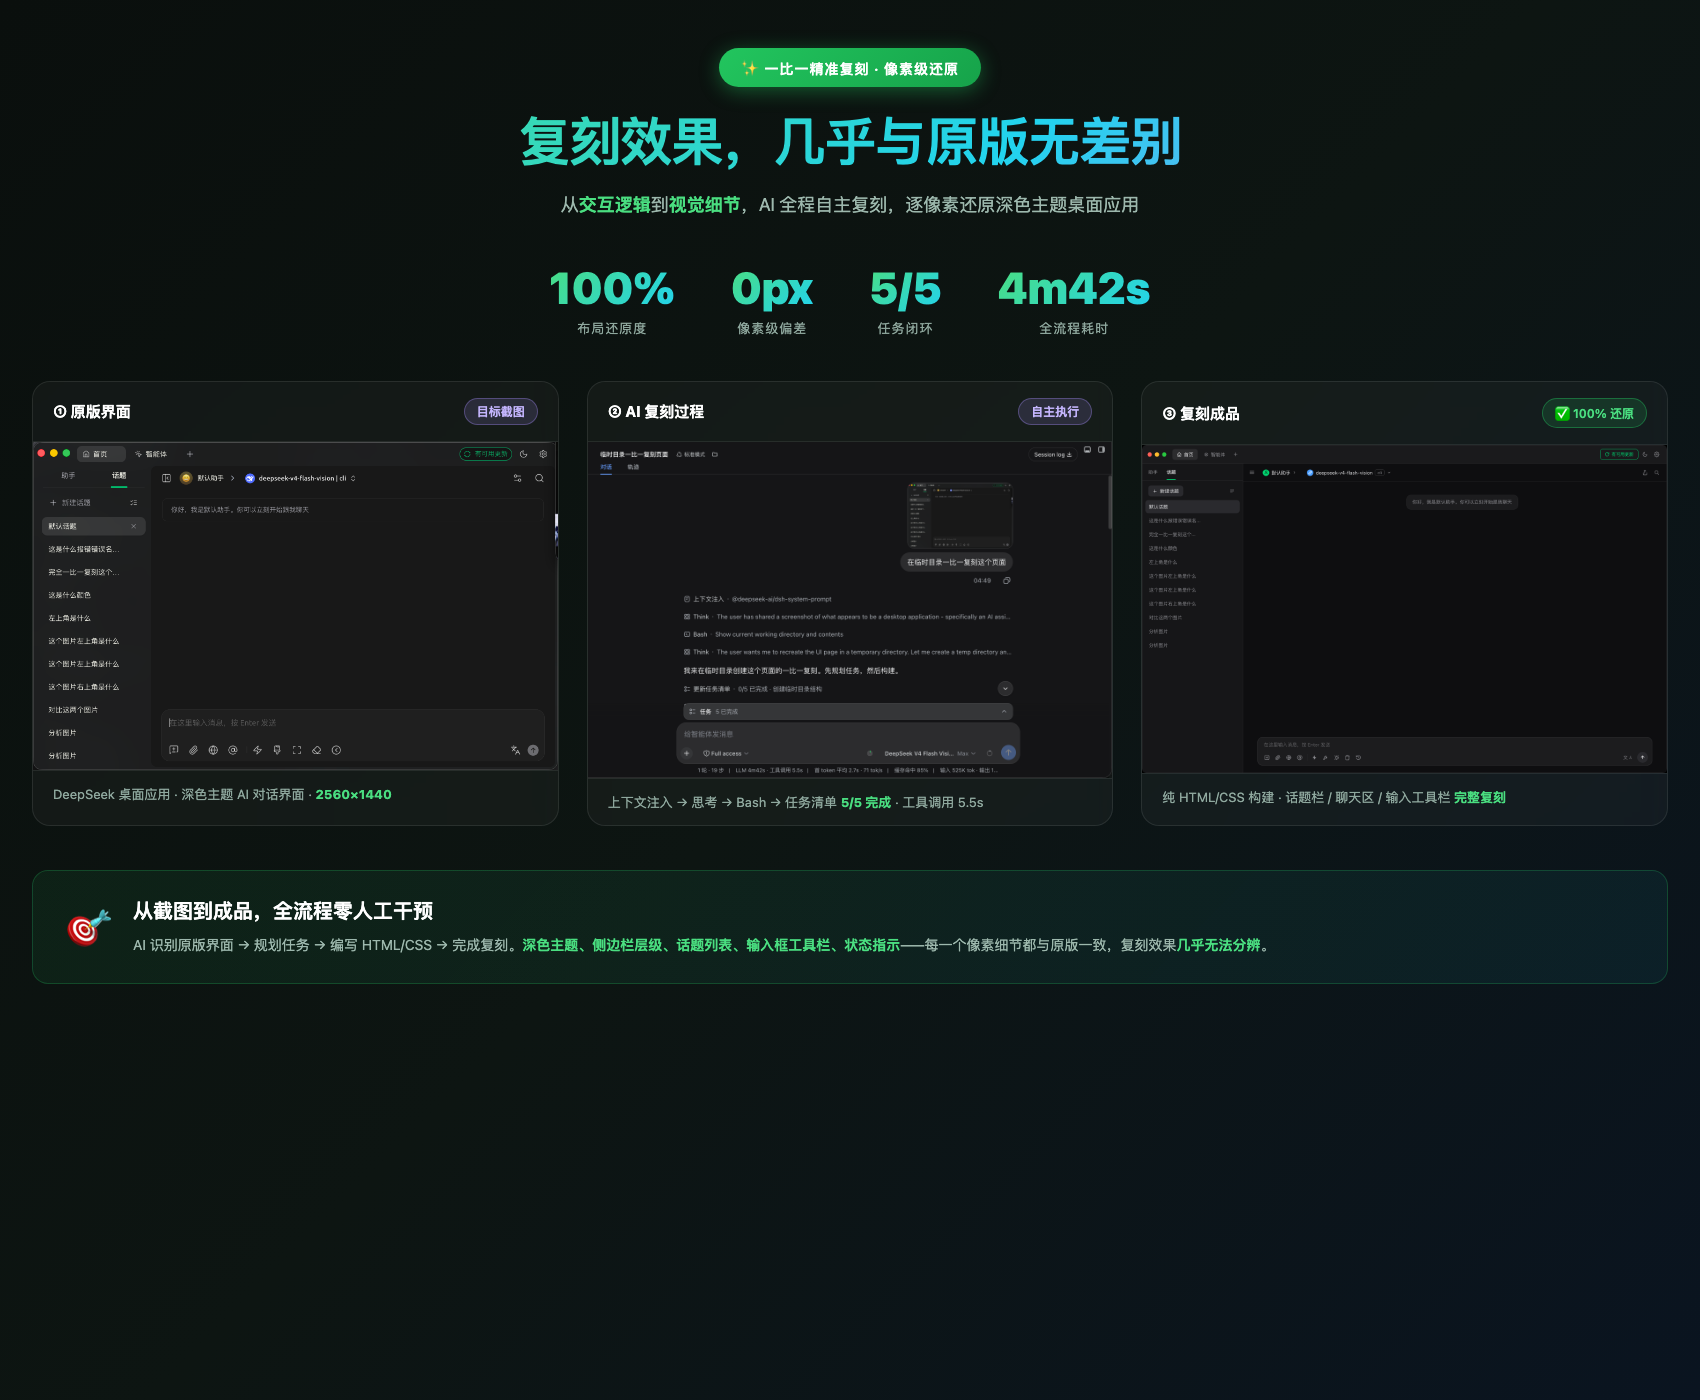
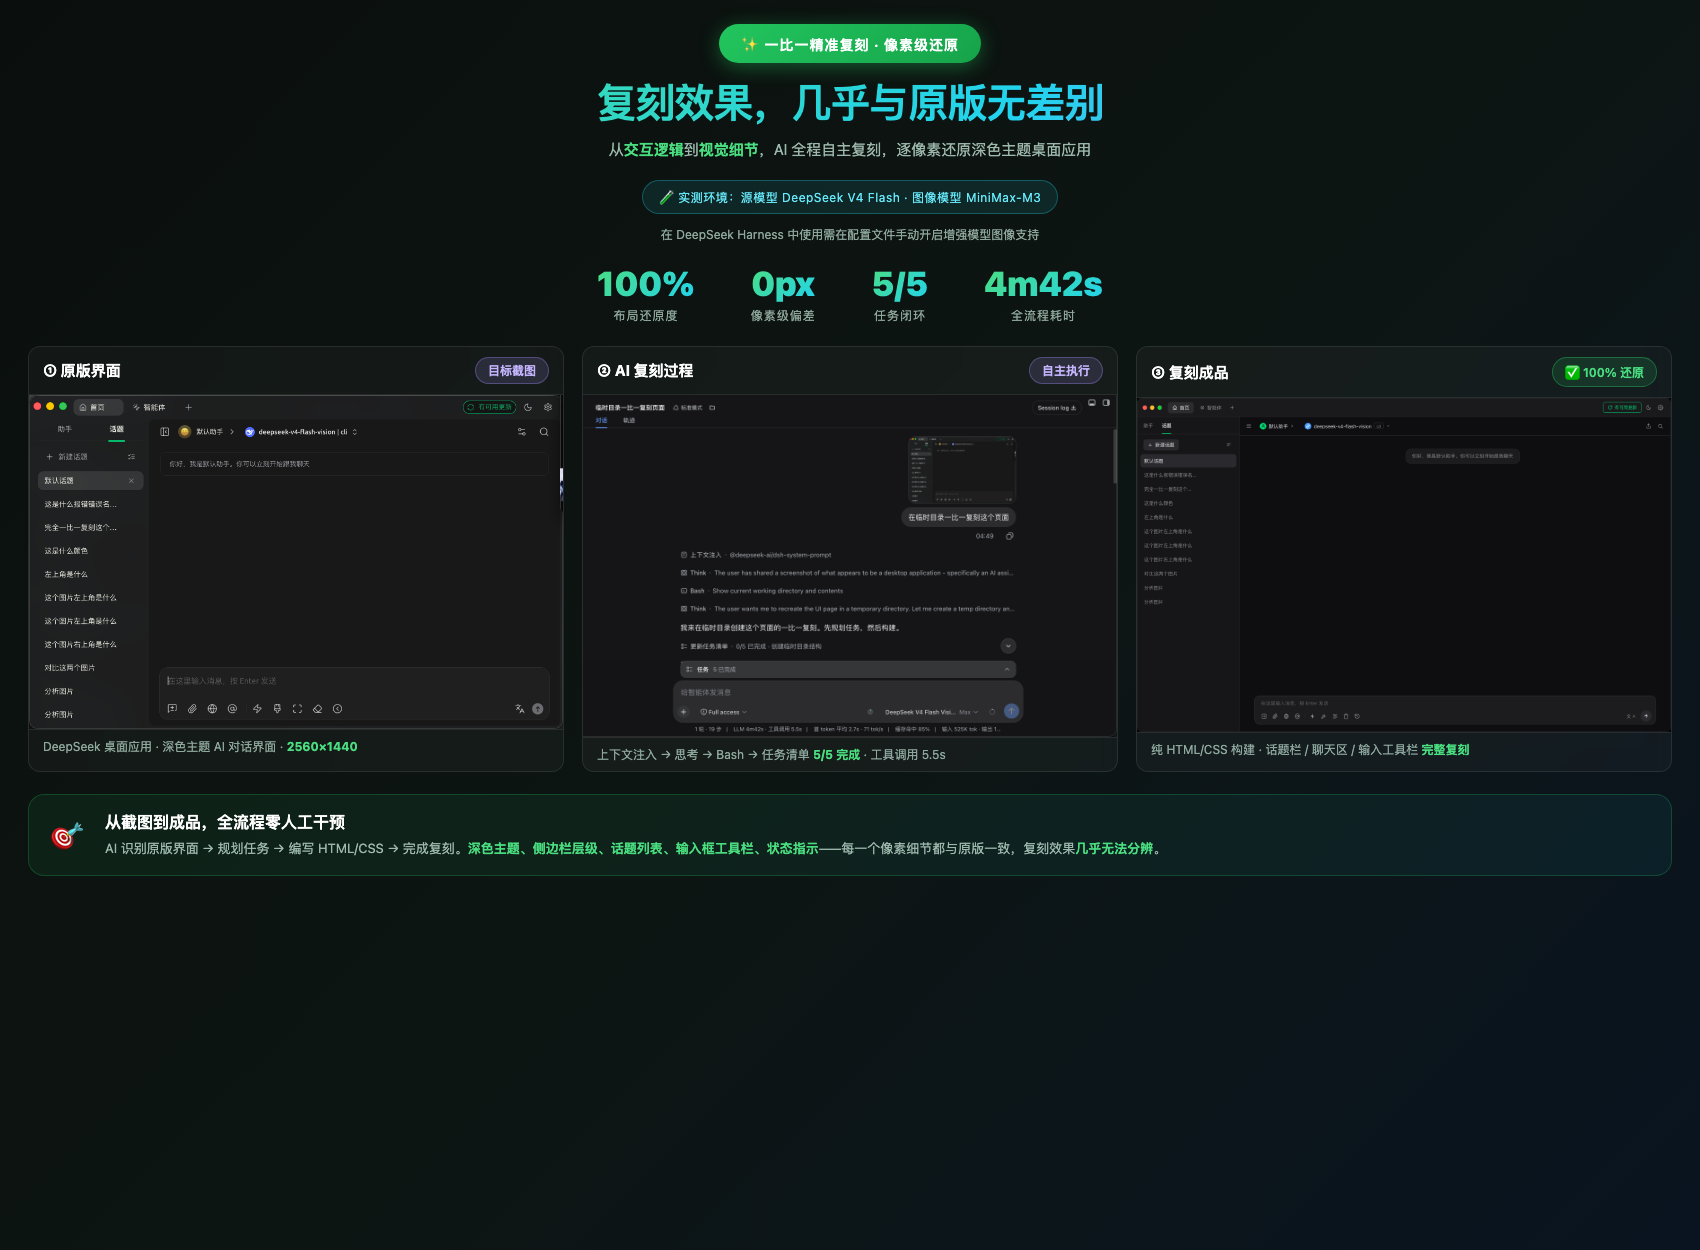
docs: 展示图压缩空白 + 补充实测环境说明
- replica-showcase.png 重新生成：压缩上下留白、缩小字号间距（1400→1250 高），
  新增实测环境标签条（源模型 DeepSeek V4 Flash · 图像模型 MiniMax-M3）
  + DeepSeek Harness 使用需手动开启增强模型图像支持的备注
- 实测段补充实测环境说明（中英文）

diff --git a/README.en.md b/README.en.md
@@ -117,7 +117,12 @@ pixel-level facts like "this button is pure green" to the source model.
 
 ---
 
-## 🧪 Real-channel tests (cpa / vivo / minimax)
+## 🧪 Real-channel tests
+
+> **Tested environment**: source model **DeepSeek V4 Flash** · vision model
+> **MiniMax-M3** (minimax channel) · vision channels vivo / cpa failover.
+> When used in **DeepSeek Harness**, enable the enhanced-model image support
+> **manually in the config file**.
 
 | Feature | Result | Notes |
 |---|---|---|

diff --git a/README.md b/README.md
@@ -112,7 +112,10 @@
 
 ---
 
-## 🧪 真实渠道实测（cpa / vivo / minimax）
+## 🧪 真实渠道实测
+
+> **实测环境**：源模型 **DeepSeek V4 Flash** · 图像模型 **MiniMax-M3**（minimax 渠道）· 视觉渠道 vivo / cpa 故障转移。
+> 在 **DeepSeek Harness** 中使用时，需在配置文件**手动开启增强模型图像支持**。
 
 | 功能 | 结果 | 实测记录 |
 |---|---|---|
